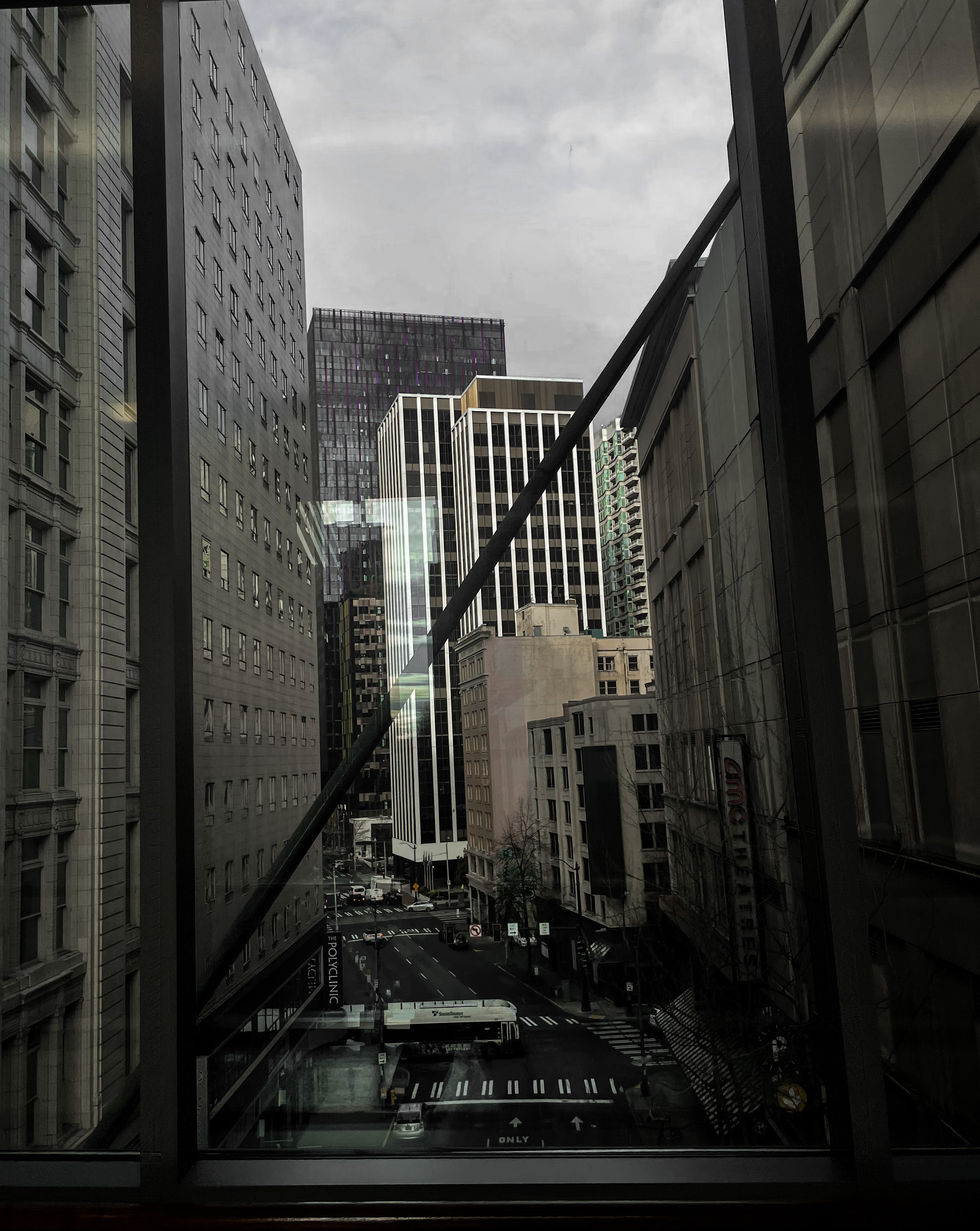
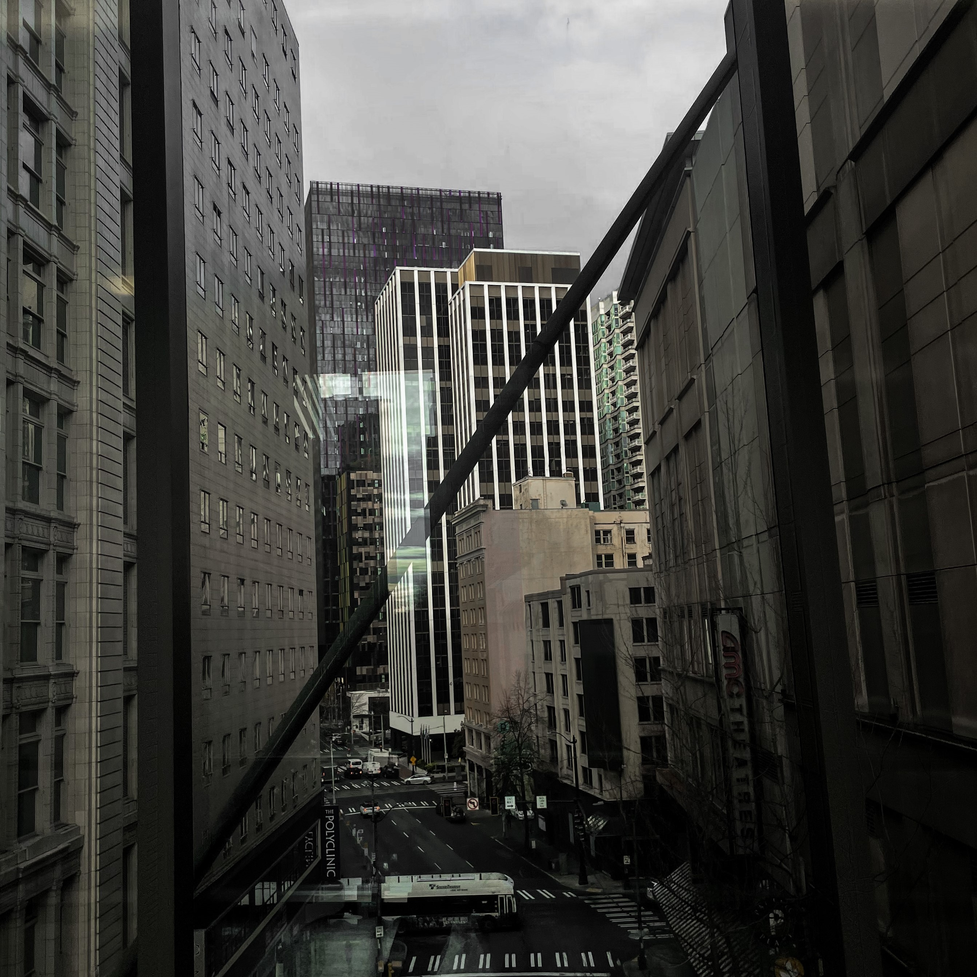
img

diff --git a/web-design.html b/web-design.html
@@ -84,7 +84,7 @@
               </div>
 
               <div class="redesign">
-                <img src="/img/box2.jpg" alt="Project 3" class="image" style="width:100%;">
+                <img src="/img/box3.jpg" alt="Project 3" class="image" style="width:100%;">
                 <div class="centered"><h2>(candl)</h2></div>
                 <div class="overlay">
                   <div class="links">
